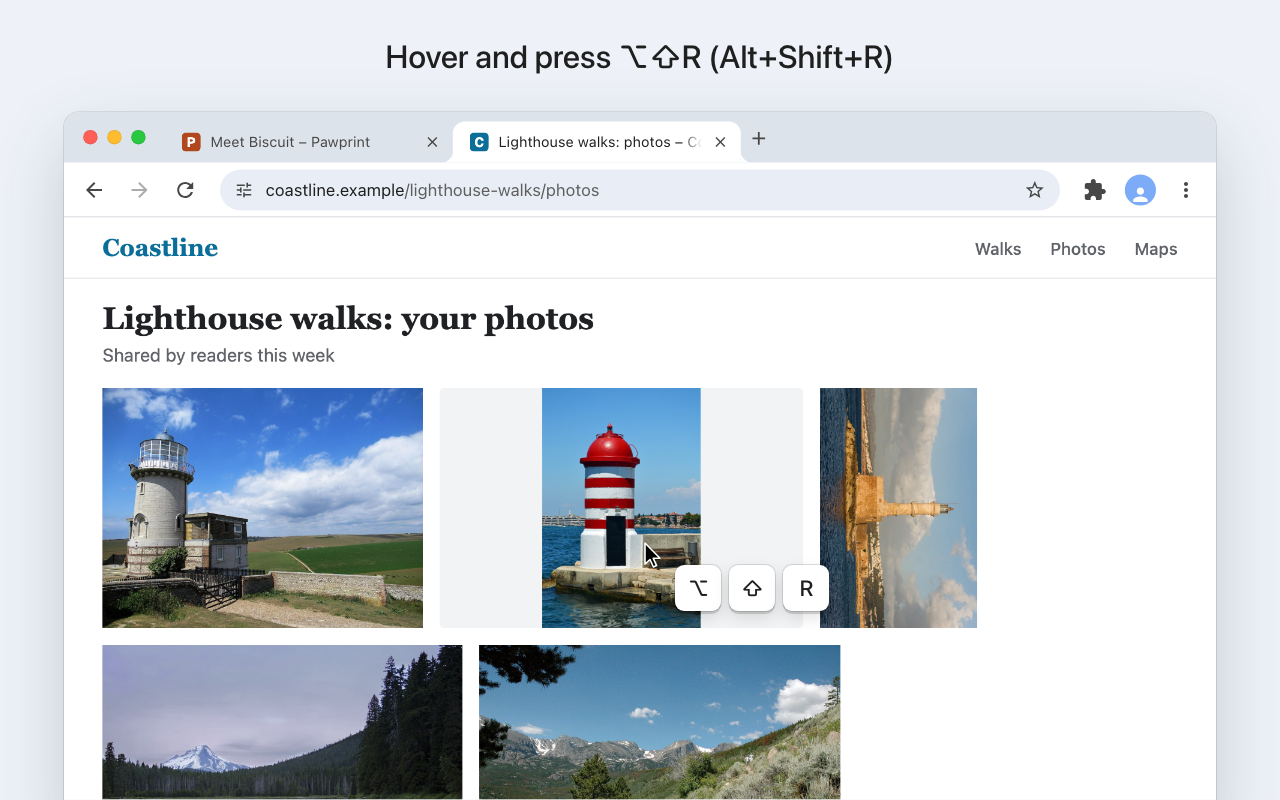
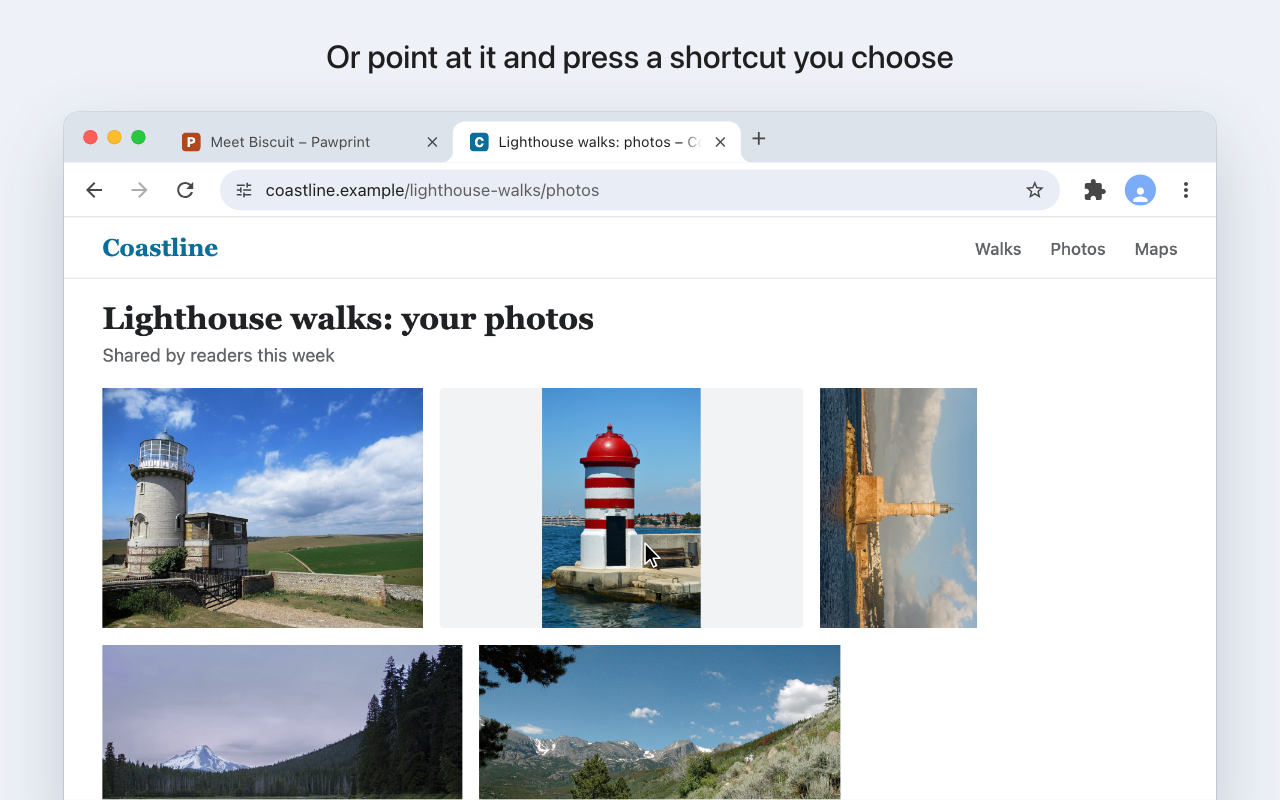
No default keyboard shortcuts; support contact support@arraypress.com
The four commands stay, without suggested keys: people set their own at
chrome://extensions/shortcuts. The settings page lists only what is set and
its one-item hint names no key that isn't. Store text, README and the
screenshots (regenerated) no longer show Alt+Shift keys.

Changed region(s): [[0.25, 0.0625, 0.75, 0.0938], [0.5, 0.6875, 0.6562, 0.7812]]

diff --git a/test/menu-viewer.test.js b/test/menu-viewer.test.js
@@ -6,8 +6,11 @@
  */
 import { describe, expect, test } from 'vitest';
 import { readFileSync } from 'node:fs';
+import { fileURLToPath } from 'node:url';
 import { SITE_LIST_MESSAGES } from '@arraypress/extension-kit';
+import { messageLookup } from '@arraypress/extension-kit/testing';
 import { actionFor, menuItems, OPEN_ID, PARENT_ID } from '../extension/background/menu.js';
+import { singleHint } from '../extension/options/single-hint.js';
 import { DEFAULTS, normalizeSettings } from '../extension/shared/settings.js';
 import { readViewerUrl, viewerUrl } from '../extension/shared/rotate.js';
 import { ACTIONS } from '../extension/shared/transform.js';
@@ -76,11 +79,24 @@ describe('menu', () => {
 describe('manifest', () => {
   const manifest = JSON.parse(readFileSync(new URL('../extension/manifest.json', import.meta.url), 'utf8'));
 
-  test('four shortcuts (Chrome allows at most four suggested keys), Alt+Shift+V opens the viewer', () => {
-    /** @type {Record<string, { suggested_key?: { default?: string } }>} */
+  test('four commands, each with its words, and no default keys: people set their own at chrome://extensions/shortcuts', () => {
+    /** @type {Record<string, { suggested_key?: unknown, description?: string }>} */
     const commands = manifest.commands;
-    const keys = Object.fromEntries(Object.entries(commands).map(([name, c]) => [name, c.suggested_key?.default]));
-    expect(keys).toEqual({ 'rotate-right': 'Alt+Shift+R', 'rotate-left': 'Alt+Shift+L', reset: 'Alt+Shift+0', 'open-viewer': 'Alt+Shift+V' });
+    expect(Object.keys(commands)).toEqual(['rotate-right', 'rotate-left', 'reset', 'open-viewer']);
+    for (const [name, command] of Object.entries(commands)) {
+      // Alt+Shift+letter types a character on a Mac, switches the keyboard's language on Windows, and clashed with the family's other extensions.
+      expect(command.suggested_key, name).toBeUndefined();
+      expect(command.description, name).toMatch(/^__MSG_command\w+__$/);
+    }
+  });
+
+  test('the one-item hint names the viewer’s and Reset’s shortcuts only when both are set', () => {
+    const t = messageLookup(fileURLToPath(new URL('../extension/', import.meta.url)));
+    const none = singleHint([{ name: 'open-viewer', shortcut: '' }, { name: 'reset', shortcut: '' }], t);
+    expect(none).toBe('With one item, keep clicking to keep turning: four clicks is upright again. For flips, zoom and Reset, choose Full menu, or set shortcuts on Chrome’s Keyboard shortcuts page.');
+    expect(singleHint([{ name: 'open-viewer', shortcut: 'Ctrl+Shift+9' }, { name: 'reset', shortcut: '' }], t)).toBe(none);
+    expect(singleHint([{ name: 'open-viewer', shortcut: 'Ctrl+Shift+9' }, { name: 'reset', shortcut: 'Ctrl+Shift+0' }], t))
+      .toContain('press Ctrl+Shift+9 to open it in a new tab; Ctrl+Shift+0 resets it');
   });
 
   test('named Upright, with no host permissions at install', () => {

diff --git a/extension/options/options.js b/extension/options/options.js
@@ -13,6 +13,7 @@ import {
   siteOrigin, statusFlasher, valueRow, withoutSite, withSite, withSiteReplaced,
 } from '../vendor/extension-kit/index.js';
 import { ABOUT_LINKS } from './about-links.js';
+import { singleHint } from './single-hint.js';
 import { ALL_SITES } from '../shared/registration.js';
 import { normalizeSettings, settingsStore } from '../shared/settings.js';
 
@@ -195,15 +196,8 @@ const shortcuts = setShortcuts(
 // Only the shortcuts that are set; the link row below goes to Chrome's page to change them.
 byId('shortcuts').replaceChildren(...shortcuts.map(({ title, shortcut }) => valueRow(title, shortcut)));
 byId('no-shortcuts').hidden = shortcuts.length > 0;
-/**
- * A command's shortcut as it's set now (people change them), or "not set".
- *
- * @param {string} name - The command.
- * @returns {string} Its keys.
- */
-const keyFor = (name) => commands.find((command) => command.name === name)?.shortcut || t('optionsShortcutNotSet');
-// The one-item hint names the shortcuts.
-byId('single-hint').textContent = t('optionsSingleHint', [keyFor('open-viewer'), keyFor('reset')]);
+// The one-item hint names the viewer's and Reset's shortcuts when they're set, and where to set them when not.
+byId('single-hint').textContent = singleHint(commands, t);
 // chrome:// pages can't be opened from a link on an extension page.
 byId('edit-shortcuts').addEventListener('click', () => chrome.tabs.create({ url: 'chrome://extensions/shortcuts' }));
 

diff --git a/extension/options/single-hint.js b/extension/options/single-hint.js
@@ -1,0 +1,27 @@
+/**
+ * The hint under “With one item, a click”: how to get to the viewer's flips and zoom, and to
+ * Reset, with only one item on the menu. It names the keyboard shortcuts for those when both are
+ * set (Chrome sets none by default: people choose their own at chrome://extensions/shortcuts),
+ * and otherwise says where to set them, never naming a key that isn't set. Pure.
+ *
+ * @module options/single-hint
+ */
+
+/**
+ * The hint's words.
+ *
+ * @param {readonly {name?: string, shortcut?: string}[]} commands - `chrome.commands.getAll()`.
+ * @param {(key: string, substitutions?: string | string[]) => string} t - The page's words.
+ * @returns {string} The hint.
+ * @example
+ * singleHint([{ name: 'open-viewer', shortcut: 'Ctrl+Shift+8' }, { name: 'reset', shortcut: 'Ctrl+Shift+0' }], t);
+ * // '… point at it and press Ctrl+Shift+8 to open it in a new tab; Ctrl+Shift+0 resets it. …'
+ * singleHint([{ name: 'open-viewer', shortcut: '' }], t); // '… or set shortcuts on Chrome’s Keyboard shortcuts page.'
+ */
+export function singleHint(commands, t) {
+  /** @param {string} name @returns {string} The command's keys; '' when none are set. */
+  const keyFor = (name) => commands.find((command) => command.name === name)?.shortcut ?? '';
+  const viewer = keyFor('open-viewer');
+  const reset = keyFor('reset');
+  return viewer && reset ? t('optionsSingleHint', [viewer, reset]) : t('optionsSingleHintNoKeys');
+}

diff --git a/test/support.test.js b/test/support.test.js
@@ -1,0 +1,30 @@
+/**
+ * The support contact: one address, for support and privacy questions, written where people and
+ * the store's listing read it (PRIVACY.md's Contact, CHROMEWEBSTORE.md's Support URL), with no
+ * placeholder and no other address left beside it.
+ *
+ * @module test/support
+ */
+import { describe, expect, test } from 'vitest';
+import { readFileSync } from 'node:fs';
+
+/** The contact for support and privacy questions, for now. */
+const SUPPORT = 'support@arraypress.com';
+
+/** @param {string} name @returns {string} A file at the repository's root. */
+const read = (name) => readFileSync(new URL(`../${name}`, import.meta.url), 'utf8');
+
+describe('the support contact', () => {
+  test('PRIVACY.md’s Contact section and the store notes’ Support URL name it', () => {
+    expect(read('PRIVACY.md').split(/^## Contact$/m)[1]).toContain(SUPPORT);
+    expect(read('CHROMEWEBSTORE.md')).toMatch(new RegExp(`\\*\\*Support URL\\*\\*[^\\n]*mailto:${SUPPORT.replace('.', '\\.')}`));
+  });
+
+  test('no placeholder, and no other address, is left in either', () => {
+    for (const name of ['PRIVACY.md', 'CHROMEWEBSTORE.md']) {
+      const text = read(name);
+      expect(text, name).not.toMatch(/\[SUPPORT EMAIL\]|address David chooses/);
+      expect([...new Set(text.match(/[\w.+-]+@[\w-]+(?:\.[\w-]+)+/g) ?? [])], name).toEqual([SUPPORT]);
+    }
+  });
+});

diff --git a/CHROMEWEBSTORE.md b/CHROMEWEBSTORE.md
@@ -26,7 +26,7 @@ RIGHT-CLICK MENU
 • Or the full menu: Rotate clockwise, Rotate counterclockwise, Rotate 180°, Flip horizontally, Flip vertically, Reset, and Open in new tab.
 
 KEYBOARD
-• Point at an image or video and press Alt+Shift+R (clockwise), Alt+Shift+L (counterclockwise) or Alt+Shift+0 (reset), or Alt+Shift+V to open it in a new tab to flip and zoom. On a Mac, Alt is the Option key (⌥). Change them at chrome://extensions/shortcuts.
+• Or point at an image or video and press a keyboard shortcut: rotate clockwise, rotate counterclockwise, reset, or open it in a new tab to flip and zoom. Choose your own keys at chrome://extensions/shortcuts (none are set when you install it).
 • Single-key mode (optional): just press R, L or 0 while pointing. Off until you switch it on, for all sites or only the ones you choose, and never while you’re typing.
 
 IN A NEW TAB
@@ -49,7 +49,7 @@ Rotates and flips images and videos on web pages, in place or in a viewer tab, w
 English (also en_GB wording: "anti-clockwise").
 
 **Homepage URL** [OPTIONAL]: an ArrayPress page for the extension, if there is one.
-**Support URL** [OPTIONAL]: the support page or `mailto:` address David chooses.
+**Support URL** [OPTIONAL]: `mailto:support@arraypress.com` (the contact for support and privacy questions, for now; bug reports go to the repo's GitHub Issues).
 
 ## Graphics & Assets
 
@@ -57,7 +57,7 @@ English (also en_GB wording: "anti-clockwise").
 |-------|-----------|--------|----------|
 | Store Icon [REQUIRED] | 128×128 PNG | ✅ Ready | `extension/icons/icon-128.png` (from `extension/icons/icon.svg`) |
 | Screenshot 1 [REQUIRED] | 1280×800 | ✅ Ready | `store/screenshot-1.png`: “Turn sideways photos upright, right on the page”, a post before and after Rotate image |
-| Screenshot 2 | 1280×800 | ✅ Ready | `store/screenshot-2.png`: “Hover and press ⌥⇧R (Alt+Shift+R)”, a gallery photo just turned by the shortcut |
+| Screenshot 2 | 1280×800 | ✅ Ready | `store/screenshot-2.png`: “Or point at it and press a shortcut you choose”, a gallery photo just turned by a shortcut (no keys shown: none ship) |
 | Screenshot 3 | 1280×800 | ✅ Ready | `store/screenshot-3.png`: “Rotate, flip and zoom in the viewer”, the viewer (light) |
 | Screenshot 4 | 1280×800 | ✅ Ready | `store/screenshot-4.png`: “One menu item, or the full menu”, the settings page |
 | Screenshot 5 | 1280×800 | ✅ Ready | `store/screenshot-5.png`: “Open it full-window for a closer look”, the viewer in dark mode, zoomed in |
@@ -66,7 +66,7 @@ English (also en_GB wording: "anti-clockwise").
 
 **How they were made.** `node store/tools/make-screenshots.mjs` regenerates all six.
 - It runs `scripts/build-e2e.mjs` and loads that build in Playwright's Chromium (Playwright 1.64.0 from the Tabby repo). That build is a copy of `extension/` plus the test hook.
-- Chrome's right-click menu and shortcuts can't be driven headlessly, so the script calls exactly what a click on “Rotate image” or a press of ⌥⇧R / ⌥⇧L / ⌥⇧V calls, with the real pointer hovering the photo.
+- Chrome's right-click menu and shortcuts can't be driven headlessly, so the script calls exactly what a click on “Rotate image” or a press of a shortcut calls, with the real pointer hovering the photo.
 - Everything inside the windows is a real capture: the turned photos, the viewer and the settings page. The window frame, captions, labels, key caps and pointer are drawn.
 - Chrome's own image menu isn't drawn. Shot 1 names the item in a label instead.
 - The pages are made up (no real sites). Photos are CC0, from Wikimedia Commons, saved sideways in `store/tools/photos/`: “Tabby cat with blue eyes-3336579”, “Lighthouse Zadar”, “Lighthouse Chania evening sun”, “Belle Tout Lighthouse, June 2020 01”, “Lake Mountain Landscape”, “Bierstadt Lake Trail, Rocky Mountain National Park, 2009”.
@@ -83,7 +83,7 @@ English (also en_GB wording: "anti-clockwise").
 | `storage` | `chrome.storage.sync` keeps the user's settings (menu style, direction, extra keys and the “Never on” list), so Chrome Sync carries them to the user’s other computers through their own Google account, like Chrome’s own settings (signed out of Chrome, they stay on the computer). `chrome.storage.local` keeps single-key mode, where it runs and its chosen sites, which never sync because site access is granted on each computer; and, for the moment, any settings change Chrome Sync refused, until it’s retried; and whether Chrome was last seen in light or dark mode (`toolbarDark`, one true/false, this computer only, never synced), for the toolbar icon. Nothing is sent to the developer. Nothing else is stored. No install warning. |
 | `offscreen` | Keeps one small hidden page (`offscreen/offscreen.html`, reason `MATCH_MEDIA`) that reads whether Chrome is in light or dark mode (`matchMedia('(prefers-color-scheme: dark)')`, which the service worker can’t call), so the toolbar icon matches Chrome’s own icons. It only reads that one true/false and tells the extension’s service worker when it changes; it loads nothing and sends nothing anywhere. No install warning. |
 | `action` (manifest key, not a permission) | The toolbar button opens the settings page. Its icon is a plain glyph in Chrome’s own toolbar icon colours, light or dark to match Chrome. |
-| `commands` (manifest key) | Keyboard shortcuts for the image under the pointer: rotate (Alt+Shift+R, L), reset (Alt+Shift+0) and open in the viewer (Alt+Shift+V), changeable at chrome://extensions/shortcuts. No install warning. |
+| `commands` (manifest key) | Four keyboard commands for the image under the pointer (rotate clockwise, rotate counterclockwise, reset, open in the viewer), with no default keys: the user sets them at chrome://extensions/shortcuts. No install warning. |
 | Optional host permissions (`https://*/*`, `http://*/*`) | Asked for only when the user switches on single-key mode in settings, for all sites or the sites they list, from that click. Needed to listen for a single unmodified key (R, L, 0) on those pages, which Chrome's shortcuts can't do. The listener acts only when an image or video is under the pointer and the user isn't typing; it reads nothing else from the page. Switching the mode off gives the permissions back. |
 
 **Web accessible resources**: `content/keys.js` and the modules it imports (`shared/page.js`, `rotate.js`, `transform.js`, `settings.js`, `sites.js`), so the single-key content script can load the same code as the menu. They're code only and contain no data; a site can tell the extension is installed by requesting them.
@@ -127,7 +127,7 @@ especially with optional host permissions. Host the text below, e.g. at
 >
 > **No account, no analytics, no ads.** Settings sync is Chrome’s own, through your Google account. Nobody, including ArrayPress, receives any of your data.
 >
-> Questions: david@arraypress.com.
+> Questions: support@arraypress.com.
 
 ## Version History
 
@@ -141,12 +141,13 @@ especially with optional host permissions. Host the text below, e.g. at
 - [ ] **Developer account.** Register at https://chrome.google.com/webstore/devconsole (one-time US$5 fee) with the Google account that will own ArrayPress’s listings. Turn on 2-Step Verification, which the dashboard requires.
 - [ ] **Account tab.** Set the publisher name (ArrayPress) and a **contact email**, and verify that email. Complete the trader / non-trader declaration (EU Digital Services Act): as a company, ArrayPress Limited is likely a trader, which needs a verified address and phone number.
 - [x] **Make the GitHub repo public** (done 9 Nov 2026) (`arraypress/upright`). The About card’s Get help, Report an issue and Privacy policy links, and the privacy policy URL (`https://github.com/arraypress/upright/blob/main/PRIVACY.md`), all point into it; while it’s private they show GitHub’s 404. `npm run package` prints a reminder.
-- [ ] Decide the **support** contact (email or URL) and whether to add a homepage URL.
+- [x] The **support** contact: support@arraypress.com, for now (PRIVACY.md's Contact section is the one place it's written for people; change it there and here together).
+- [ ] Decide whether to add a homepage URL.
 
 **Build:**
 - [ ] `npm run package` (tests, then `release/upright-1.0.0.zip`; it refuses a test manifest). The zip is exactly the contents of `extension/`, less the icons' SVG sources (`test/package.test.js` checks this): `unzip -l release/upright-1.0.0.zip` lists 37 files, `manifest.json` at the root, then `_locales/` (2), `background/` (4), `content/` (2), `offscreen/` (2), `options/` (4), `viewer/` (4), `shared/` (8) and `icons/` (10 PNGs); no `store/`, `test/`, `scripts/` or `.test-builds/`.
 - [ ] **No placeholder links.** `extension/options/about-links.js` points at the GitHub repo (README, Issues, PRIVACY.md); `npm run package` warns loudly if any link is ever set back to example.com.
-- [ ] Load the `extension/` folder in a clean profile. Check that right-click › Rotate image, ⌥⇧R / Alt+Shift+R, the viewer and switching single-key mode on (its permission prompt) all work.
+- [ ] Load the `extension/` folder in a clean profile. Check that right-click › Rotate image, a shortcut set at chrome://extensions/shortcuts (none is set by default), the viewer and switching single-key mode on (its permission prompt) all work.
 
 **Developer Dashboard, in order:**
 1. **Items › New item**: upload `release/upright-1.0.0.zip`.

diff --git a/DEVELOPMENT.md b/DEVELOPMENT.md
@@ -6,7 +6,7 @@ How Upright works inside, for whoever changes it next. The user-facing overview 
 - **Right-click menu** (Options › Right-click menu):
   - *One item* (default): "Rotate image" / "Rotate video". Each click is a quarter turn, clockwise or counterclockwise as set.
   - *Full menu*: "Rotate ▸" clockwise, counterclockwise, 180°, flip horizontally, flip vertically, Reset, Open in new tab.
-- **Shortcuts** for whatever is under the pointer: Alt+Shift+R (clockwise), Alt+Shift+L (counterclockwise), Alt+Shift+0 (reset), Alt+Shift+V (open in the viewer at its current turn). Change them at chrome://extensions/shortcuts. With the one-item menu, Alt+Shift+V and Alt+Shift+0 are the way to the viewer's flips and zoom, and to Reset.
+- **Shortcuts** for whatever is under the pointer: four commands (clockwise, counterclockwise, reset, open in the viewer at its current turn) with **no default keys** (`test/menu-viewer.test.js` checks the manifest has no `suggested_key`): Alt+Shift+letter types a character on a Mac, switches the keyboard's language on Windows, and clashed with the family's other extensions, so people set their own at chrome://extensions/shortcuts. Everything that mentions a shortcut reads what's set (`chrome.commands.getAll`): the settings page lists only set ones (the kit's `setShortcuts`), and the one-item hint (`options/single-hint.js`) names the viewer's and Reset's keys only when both are set, else says to choose Full menu or set shortcuts.
 - **Single-key mode** (opt-in, asks for site access): R, L and 0 over media, with H/V flips as "extra keys". Never in text fields; a key that turns nothing goes to the page as normal.
 - **Viewer** (`viewer/viewer.html?src=…&r=90&f=1`): full window, rotate/flip/zoom buttons and keys R, Shift-R, H, V, 0, +/−, F, 1. CSS only, so any site's media shows. "Save rotated copy" is offered only when the site allows reading the pixels (CORS).
 
@@ -64,3 +64,6 @@ The same rules as Tabby's (`../tabby/CLAUDE.md`, "Wording") and Better Tab Actio
 - The options page is the extension's only page, so it keeps its name in the title: "Upright settings" (Tabby, with several pages, calls its own just "Settings").
 - The name is in one place, `extShortName` (and the store name, `extName`): other messages take it as `$NAME$` (content `$1`), which the kit's `t` and `data-i18n` fill in. The toolbar button's tooltip is just the name (`__MSG_extShortName__`), as the manifest can't fill a placeholder.
 - `en_GB` overrides only the words that differ ("anti-clockwise"); change it in step with `en`.
+
+## Support contact
+support@arraypress.com, for now: the contact for support and privacy questions. It is written in PRIVACY.md (Contact) and CHROMEWEBSTORE.md (Support URL and its checklist line) and nowhere in the code; bug reports go to the repo's GitHub Issues, as the About card's links do. `test/package.test.js` checks the two files agree.

diff --git a/README.md b/README.md
@@ -1,7 +1,7 @@
 # Upright – Rotate Images & Videos
 
 Turn sideways photos and phone videos upright, right on the page. Right-click → **Rotate image**,
-or hover and press **Alt+Shift+R**. The page doesn’t jump: the picture turns in its own space.
+or point at it and press a shortcut you choose. The page doesn’t jump: the picture turns in its own space.
 
 ![A sideways photo turned upright on the page](store/screenshot-1.png)
 
@@ -10,11 +10,12 @@ or hover and press **Alt+Shift+R**. The page doesn’t jump: the picture turns i
 - **Right-click menu:** “Rotate image” / “Rotate video”, a quarter turn per click. Or switch to the
   full menu: clockwise, counterclockwise, 180°, flip horizontally, flip vertically, reset, and open
   in a new tab.
-- **Shortcuts** for whatever is under the pointer (change them at `chrome://extensions/shortcuts`):
-  - **Alt+Shift+R**: rotate clockwise
-  - **Alt+Shift+L**: rotate counterclockwise
-  - **Alt+Shift+0**: reset
-  - **Alt+Shift+V**: open it in the viewer
+- **Shortcuts** for whatever is under the pointer. None are set when you install it: choose your own
+  at `chrome://extensions/shortcuts` (the settings page links there, and lists the ones you’ve set):
+  - rotate clockwise
+  - rotate counterclockwise
+  - reset
+  - open it in the viewer
 - **Single-key mode** (off by default): hover and press **R**, **L** or **0**, on all sites or only the
   ones you choose. Never while you’re typing.
 - **Viewer:** a full-window view with rotate, flip and zoom, and “Save rotated copy” where the site

diff --git a/CHANGELOG.md b/CHANGELOG.md
@@ -6,7 +6,11 @@ First version.
 
 - Right-click “Rotate image” / “Rotate video” (one item, a quarter turn per click), or the full
   Rotate menu: clockwise, counterclockwise, 180°, flips, reset, open in a new tab.
-- Shortcuts for the media under the pointer: Alt+Shift+R / L / 0 / V.
+- Shortcuts for the media under the pointer (rotate clockwise and counterclockwise, reset, open in
+  the viewer), with no default keys: you choose them at chrome://extensions/shortcuts. (Alt+Shift+R /
+  L / 0 / V were dropped before release: Alt+Shift+letter types a character on a Mac, switches the
+  keyboard’s language on Windows, and clashed with other extensions.) The settings page lists the
+  ones you’ve set and never names a key that isn’t.
 - Optional single-key mode (R, L, 0) on chosen sites.
 - Viewer with rotate, flip, zoom and “Save rotated copy” where the site allows it.
 - Settings sync through Chrome Sync; settings page styled like chrome://settings, with an About card.

diff --git a/PRIVACY.md b/PRIVACY.md
@@ -20,4 +20,4 @@ Settings sync is Chrome’s own, through your Google account. Nobody, including 
 
 ## Contact
 
-Questions: [open an issue](https://github.com/arraypress/upright/issues) or email david@arraypress.com.
+Questions: [open an issue](https://github.com/arraypress/upright/issues) or email support@arraypress.com.
